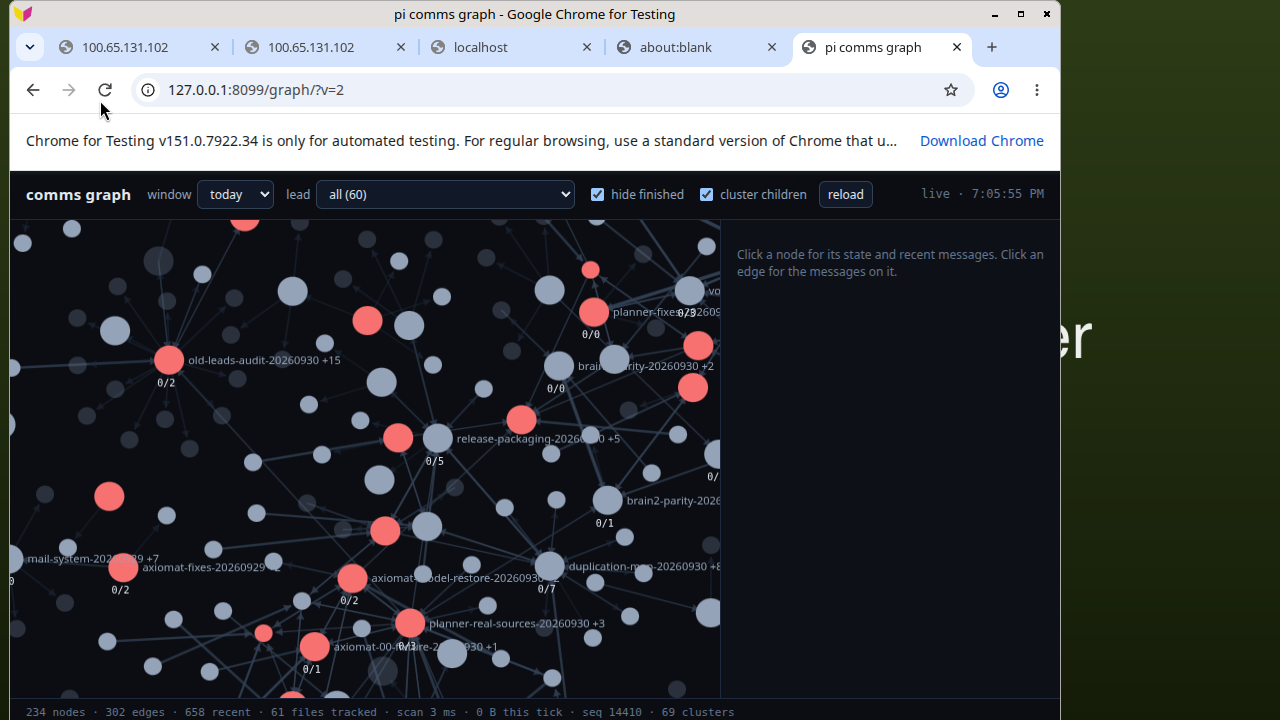
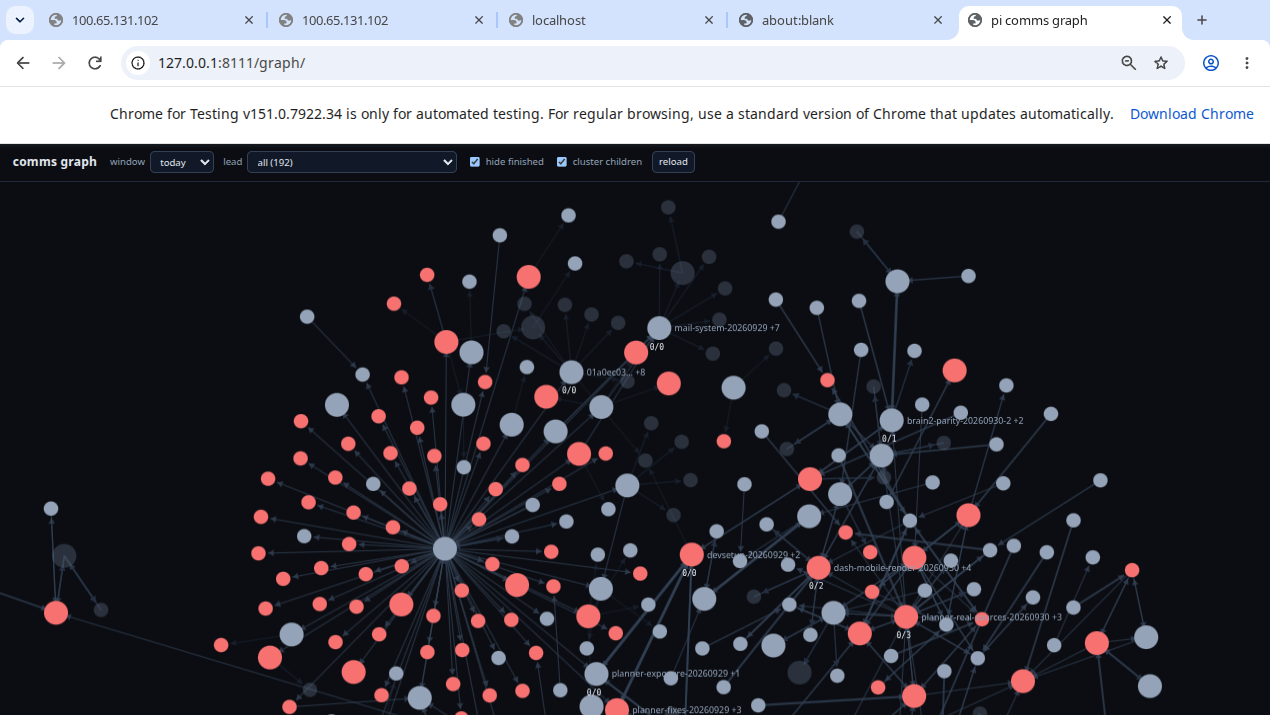
docs(graph): the screenshots, in the repo, next to the numbers
Six captures of the page running in the sandbox against artifacts/corpus-snapshot
(336.5 MB, 877 files): the cold start saying so, the converged graph at 528
nodes / 953 edges with every rlm child present, a node opened, an edge opened,
and the pair of filter views that is the regression evidence for hide-finished.

docs/comms-graph.md now carries them inline, and says what the red cluster is:
169 agent_status records in this corpus carry taskState "error" with the summary
"Token Plan usage limit reached". That is the day's 429 storm, drawn as what it
was rather than smoothed over.

diff --git a/docs/comms-graph.md b/docs/comms-graph.md
@@ -1,8 +1,27 @@
 # The comms graph: what it reads, what it costs, and how it was measured
 
-Companion to the `/graph/` section of the README. Every number here was measured
+Companion to the `/graph/` section of the README. The images are captures of
+the page running in a sandbox against a copy of a real corpus. Every number here was measured
 on this machine; the command that produced it is given so a reader can disagree
 with the number rather than with the vibe.
+
+## What it looks like
+
+| | |
+|---|---|
+| ![converged](shots/comms-graph-live.png) | **Converged**: 528 nodes, 953 edges over a 877-file corpus. Each cluster badge is `folded children / gone children`. |
+| ![filling in](shots/comms-graph-filling-in.png) | **Cold start**, mid-ingest: the page says `filling in… (N nodes so far)` rather than pretending to be complete. |
+| ![node](shots/comms-graph-node-detail.png) | **Click a node**: model, run dir, age, state badges, parent, recent message first lines. |
+| ![edge](shots/comms-graph-edge-detail.png) | **Click an edge**: the messages on it, first lines only. |
+| ![filtered](shots/comms-graph-filtered.png) | **Filters**: last 15 minutes, one lead's subtree, hide finished — `144 nodes · 71 edges · 55 clusters`. |
+| ![hide off](shots/comms-graph-hide-finished-off.png) | The same view with *hide finished* unticked: `223 nodes · 157 edges`. The pair is the regression evidence for the filter. |
+
+Node colours: green working, blue idle, amber stalled (silent for 45 minutes
+while the daemon still calls it working), red error, grey gone, dim unknown.
+A red cluster in these captures is real: 169 `agent_status` records in this
+corpus carry `taskState: "error"` with the summary
+`Model request failed: Provider rate limit exceeded ... Token Plan usage limit
+reached` — the day's 429 storm, drawn as what it was.
 
 ## Where the facts come from
 
